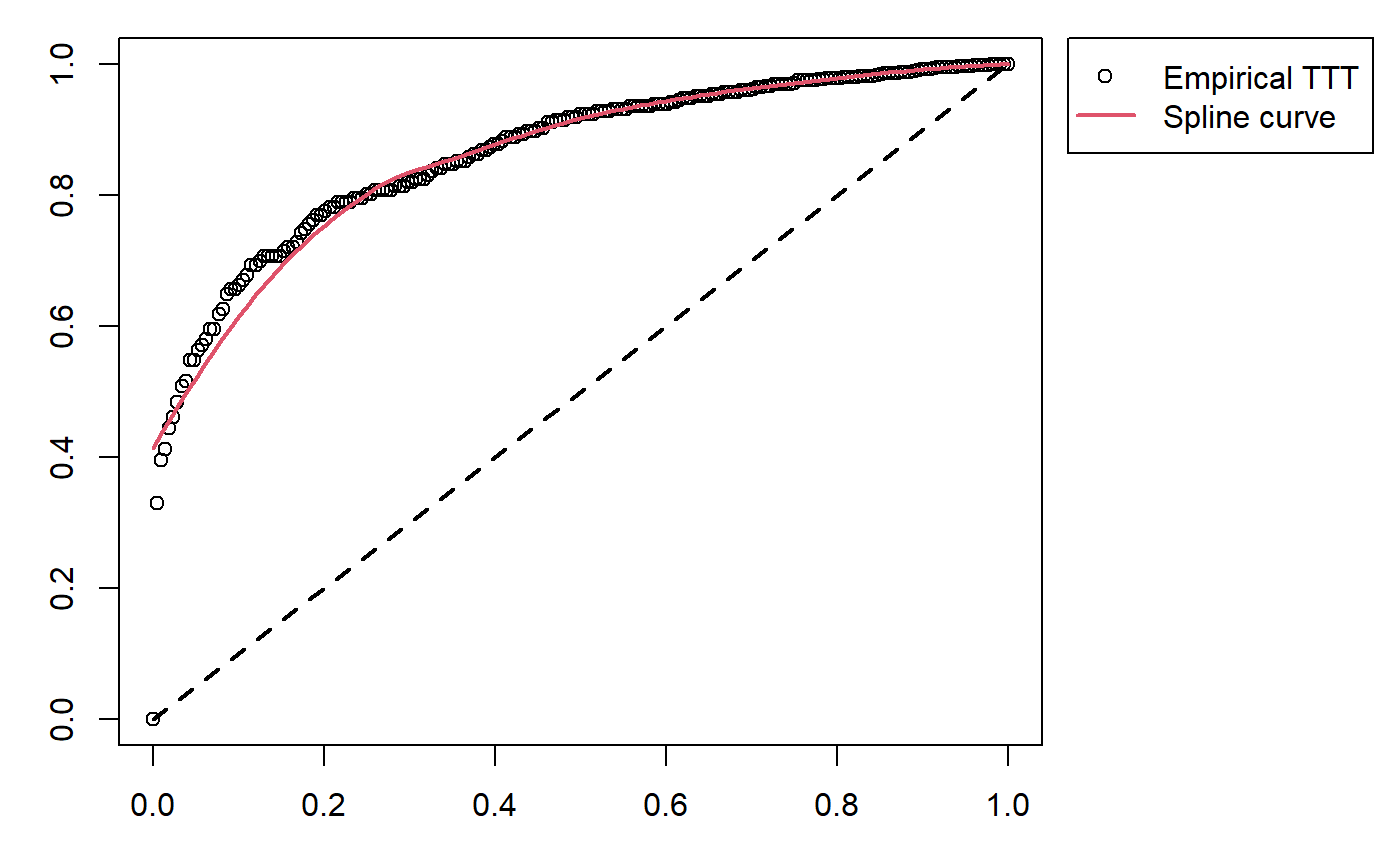
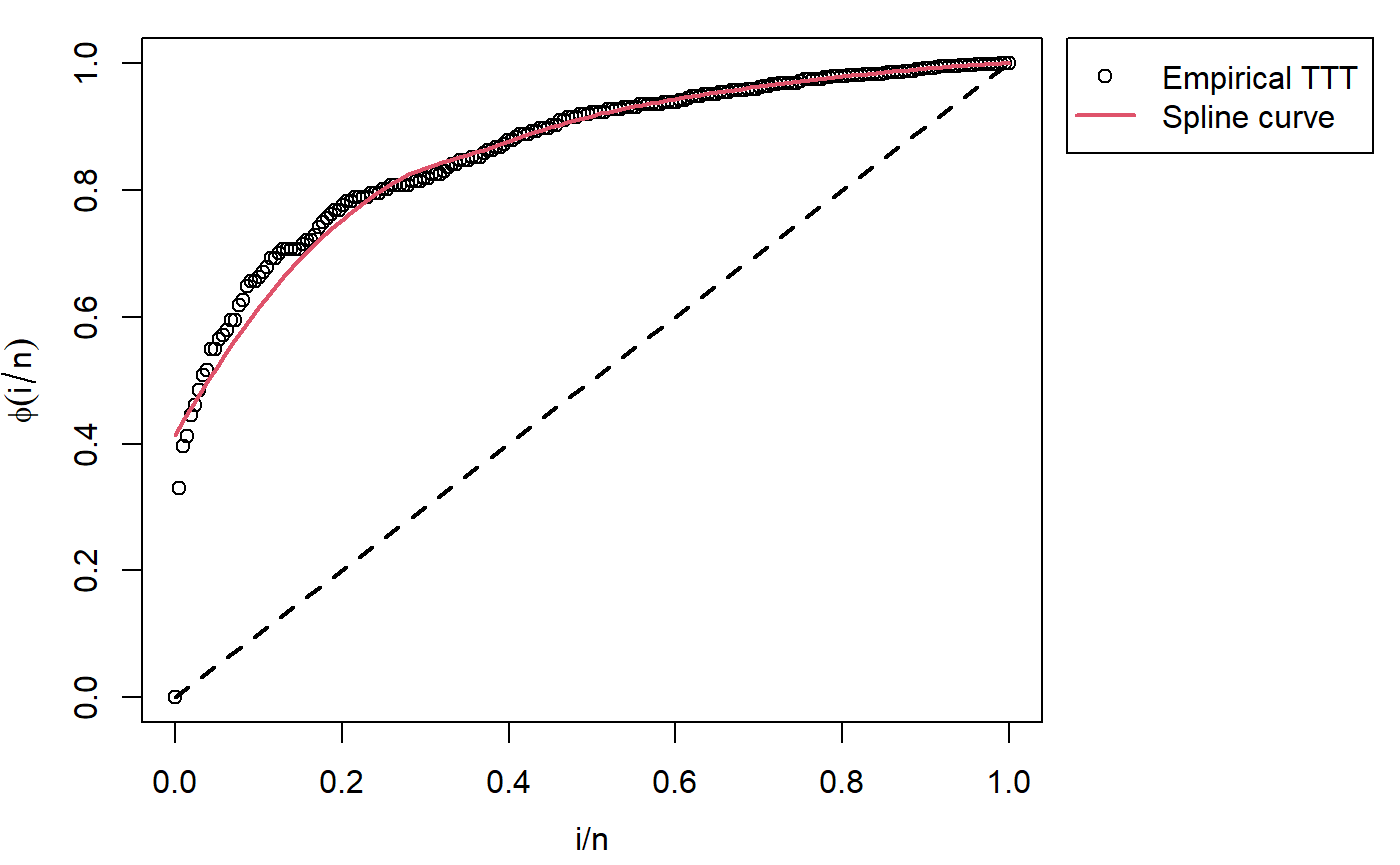
Updated.

diff --git a/docs/articles/OW_distribution.html b/docs/articles/OW_distribution.html
@@ -116,7 +116,7 @@
 </ul>
 <p>The figure shows possible shapes of the hf mentioned above:</p>
 <p><img src="OW_distribution_files/figure-html/unnamed-chunk-3-1.png" width="700"></p>
-<p>Tthe following figure illustrate the regios corresponding to the different hazard shapes:</p>
+<p>The following figure illustrate the regios corresponding to the different hazard shapes:</p>
 <p><img src="OW_distribution_files/figure-html/unnamed-chunk-4-1.png" width="700"></p>
 </div>
 <div id="application-examples" class="section level1">
@@ -152,9 +152,9 @@
 <span class="co">#&gt; --------------------------------------------------------------------</span>
 <span class="co">#&gt; Hazard shape: Bathtub</span></pre></body></html></div>
 <p><code><a href="../reference/initValuesOW_TTT.html">initValuesOW_TTT()</a></code> function detected the Bathtub hazard shape, which corresponds to a convex-then-concave shape of total time on test (TTT) plot</p>
-<div class="sourceCode" id="cb3"><html><body><pre class="r">  <span class="fu"><a href="https://rdrr.io/r/base/plot.html">plot</a></span>(<span class="no">my_initial_guess</span>,
+<div class="sourceCode" id="cb3"><html><body><pre class="r">  <span class="fu"><a href="https://rdrr.io/r/base/plot.html">plot</a></span>(<span class="no">my_initial_guess</span>, <span class="kw">las</span><span class="kw">=</span><span class="fl">1</span>,
        <span class="kw">legend_options</span><span class="kw">=</span><span class="fu"><a href="https://rdrr.io/r/base/list.html">list</a></span>(<span class="kw">pos</span><span class="kw">=</span><span class="fl">1.04</span>),
-       <span class="kw">par_plot</span><span class="kw">=</span><span class="fu"><a href="https://rdrr.io/r/base/list.html">list</a></span>(<span class="kw">mar</span><span class="kw">=</span><span class="fu"><a href="https://rdrr.io/r/base/c.html">c</a></span>(<span class="fl">3.1</span>,<span class="fl">3.1</span>,<span class="fl">1</span>,<span class="fl">2.1</span>)))</pre></body></html></div>
+       <span class="kw">par_plot</span><span class="kw">=</span><span class="fu"><a href="https://rdrr.io/r/base/list.html">list</a></span>(<span class="kw">mar</span><span class="kw">=</span><span class="fu"><a href="https://rdrr.io/r/base/c.html">c</a></span>(<span class="fl">3.7</span>,<span class="fl">3.7</span>,<span class="fl">1</span>,<span class="fl">2.1</span>), <span class="kw">mgp</span><span class="kw">=</span><span class="fu"><a href="https://rdrr.io/r/base/c.html">c</a></span>(<span class="fl">2.5</span>,<span class="fl">1</span>,<span class="fl">0</span>)))</pre></body></html></div>
 <p><img src="OW_distribution_files/figure-html/unnamed-chunk-6-1.png" width="700"></p>
 <p>Therefore, we define the search region according to <code><a href="../reference/initValuesOW_TTT.html">initValuesOW_TTT()</a></code> outputs</p>
 <div class="sourceCode" id="cb4"><html><body><pre class="r"><span class="co"># Custom search region</span>
@@ -263,7 +263,7 @@
 <p>With <code><a href="../reference/initValuesOW_TTT.html">initValuesOW_TTT()</a></code> function we identified an increasing hazard shape, as well as was stated by Cooray <span class="citation">(2006)</span>, because TTT plot is concave.</p>
 <div class="sourceCode" id="cb7"><html><body><pre class="r"><span class="fu"><a href="https://rdrr.io/r/base/plot.html">plot</a></span>(<span class="no">init_vals</span>,
      <span class="kw">legend_options</span><span class="kw">=</span><span class="fu"><a href="https://rdrr.io/r/base/list.html">list</a></span>(<span class="kw">pos</span><span class="kw">=</span><span class="fl">1.04</span>),
-     <span class="kw">par_plot</span><span class="kw">=</span><span class="fu"><a href="https://rdrr.io/r/base/list.html">list</a></span>(<span class="kw">mar</span><span class="kw">=</span><span class="fu"><a href="https://rdrr.io/r/base/c.html">c</a></span>(<span class="fl">3.1</span>,<span class="fl">3.1</span>,<span class="fl">1</span>,<span class="fl">2.1</span>)))</pre></body></html></div>
+     <span class="kw">par_plot</span><span class="kw">=</span><span class="fu"><a href="https://rdrr.io/r/base/list.html">list</a></span>(<span class="kw">mar</span><span class="kw">=</span><span class="fu"><a href="https://rdrr.io/r/base/c.html">c</a></span>(<span class="fl">3.7</span>,<span class="fl">3.7</span>,<span class="fl">1</span>,<span class="fl">2.1</span>), <span class="kw">mgp</span><span class="kw">=</span><span class="fu"><a href="https://rdrr.io/r/base/c.html">c</a></span>(<span class="fl">2.5</span>,<span class="fl">1</span>,<span class="fl">0</span>)))</pre></body></html></div>
 <p><img src="OW_distribution_files/figure-html/unnamed-chunk-11-1.png" width="700"></p>
 <p>Hence, we implement the estimation procedure</p>
 <div class="sourceCode" id="cb8"><html><body><pre class="r"><span class="co"># Custom search region</span>
